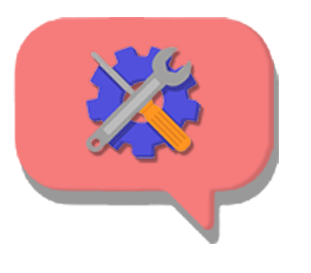
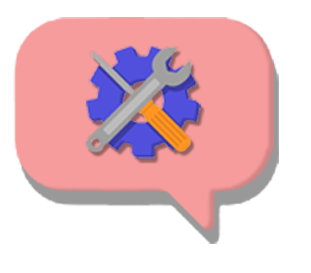
Parte PG finalizada flutter + tickets

diff --git a/mobile/fastapp/lib/pages/subPages/tickets_page.dart b/mobile/fastapp/lib/pages/subPages/tickets_page.dart
@@ -1,0 +1,107 @@
+import 'dart:ffi';
+import 'package:flutter/material.dart';
+import 'package:http/http.dart' as http;
+import 'dart:convert';
+
+class TicketsWidget extends StatefulWidget {
+  final int tecnicoId;
+  final String token;
+
+  const TicketsWidget({super.key, required this.tecnicoId, required this.token});
+
+  @override
+  State<TicketsWidget> createState() => _TicketsWidgetState();
+}
+
+class _TicketsWidgetState extends State<TicketsWidget> {
+  List<Map<String, dynamic>> tickets = [];
+
+  @override
+  void initState() {
+    super.initState();
+    carregarTickets();
+  }
+
+  Future<void> carregarTickets() async {
+    try {
+      final response = await http.get(
+        Uri.parse('http://10.0.2.2:5000/api/tecnico/${widget.tecnicoId}'),
+        headers: {
+          'Authorization': 'Bearer ${widget.token}',
+        },
+      );
+
+      if (response.statusCode == 200) {
+        final data = jsonDecode(response.body);
+        setState(() {
+          tickets = List<Map<String, dynamic>>.from(data['tickets']);
+        });
+      } else {
+        debugPrint("Erro ao carregar tickets: ${response.body}");
+      }
+    } catch (e) {
+      debugPrint("Erro ao buscar tickets: $e");
+    }
+  }
+
+  Future<void> resolverTicket(int ticketId) async {
+    try {
+      final response = await http.post(
+        Uri.parse('http://10.0.2.2:5000/api/ticket/$ticketId/fechar'),
+        headers: {
+          'Authorization': 'Bearer ${widget.token}',
+        },
+      );
+
+      if (response.statusCode == 200) {
+        setState(() {
+          tickets.removeWhere((ticket) => ticket['id'] == ticketId);
+        });
+      } else {
+        debugPrint("Erro ao resolver ticket: ${response.body}");
+      }
+    } catch (e) {
+      debugPrint("Erro ao enviar requisição: $e");
+    }
+  }
+
+  @override
+  Widget build(BuildContext context) {
+    return Column(
+      children: [
+        const SizedBox(height: 38),
+        Text('Você possui ${tickets.length} ticket(s)', style: const TextStyle(fontSize: 24)),
+        const SizedBox(height: 10),
+        Expanded(
+          child: ListView.builder(
+            itemCount: tickets.length,
+            itemBuilder: (context, index) {
+              final ticket = tickets[index];
+              return ExpansionTile(
+                title: Text("Ticket #${ticket['id']} - Status: ${ticket['status']}"),
+                children: [
+                  Padding(
+                    padding: const EdgeInsets.all(12.0),
+                    child: Column(
+                      crossAxisAlignment: CrossAxisAlignment.start,
+                      children: [
+                        Text(ticket['descricao'] ?? 'Sem descrição'),
+                        const SizedBox(height: 10),
+                        ElevatedButton.icon(
+                          icon: const Icon(Icons.check_circle),
+                          label: const Text("Resolver", style: const TextStyle(color: Color.fromARGB(255, 255, 255, 255))),
+                          style: ElevatedButton.styleFrom(backgroundColor: Colors.green),
+                          onPressed: () => resolverTicket(ticket['id']),
+                        )
+                      ],
+                    ),
+                  )
+                ],
+              );
+            },
+          ),
+        )
+      ],
+    );
+  }
+}

diff --git a/static/js/javinha.js b/static/js/javinha.js
@@ -42,14 +42,14 @@ document.addEventListener("DOMContentLoaded", function () {
     //--------------------Adiciona Tickets--------------------//
 
 
-     //-------DesignPingTick|
+    //-------DesignPingTick|
 
-        var tickIcon = L.icon({
-            iconUrl: '/static/images/Ticket.png',
-            iconAnchor: [60, 70],
-            iconSize: [30,30],
-            className: 'ticket-icone'
-        });
+    var tickIcon = L.icon({
+        iconUrl: '/static/images/Ticket.png',
+        iconAnchor: [60, 70],
+        iconSize: [34, 34],
+        className: 'ticket-icone'
+    });
     //----------------------|
 
     async function listTickets(sidebarId) {
@@ -73,7 +73,9 @@ document.addEventListener("DOMContentLoaded", function () {
             const tickets = await res.json();
             const ticketsDoDia = tickets.filter(ticket => {
                 if (!ticket.data) return false;
+                if (ticket.status === "fechado") return false;
                 return datasIguais(new Date(ticket.data + "Z"), dataSelecionada);
+
             });
 
             ceps = ticketsDoDia.map(ticket => ticket.cep);
@@ -99,7 +101,10 @@ document.addEventListener("DOMContentLoaded", function () {
 
         for (const cep of ceps) {
             try {
+
                 await plotarCepNoMapa(cep);
+
+
             } catch (e) {
                 console.error("Erro ao plotar CEP no mapa:", cep, e);
             }
@@ -245,7 +250,7 @@ document.addEventListener("DOMContentLoaded", function () {
             const { lat, lon } = nominatimData[0];
             // Debug para ver as coordenadas no console
 
-            const marcador = L.marker([lat, lon], {icon: tickIcon}).addTo(map);
+            const marcador = L.marker([lat, lon], { icon: tickIcon }).addTo(map);
             marcadoresPorCep[cep] = marcador;
             console.log(`CEP: ${cep} -> Latitude: ${lat}, Longitude: ${lon}`);
 

diff --git a/mobile/fastapp/lib/pages/home_page.dart b/mobile/fastapp/lib/pages/home_page.dart
@@ -3,6 +3,7 @@ import 'package:shared_preferences/shared_preferences.dart';
 import 'package:fastapp/services/location_service.dart';
 import 'package:fastapp/services/status_service.dart';
 import 'package:flutter/foundation.dart';
+import 'package:fastapp/pages/subPages/tickets_page.dart';
 import 'package:fastapp/pages/subPages/config_page.dart';
 import 'package:intl/intl.dart';
 import 'dart:async';
@@ -411,7 +412,7 @@ class _HomePageState extends State<HomePage> {
   Widget buildContent() {
     switch (selectedIndex) {
       case 0:
-        return const Center(child: Text('Nenhum ticket disponível'));
+        return TicketsWidget(tecnicoId:  int.tryParse(id) ?? 0, token: token);
       case 1:
         return buildPontoTab();
       case 2:

diff --git a/app/routes.py b/app/routes.py
@@ -143,7 +143,7 @@ def get_tecnicos():
                 }
                 for ticket in t.tickets
             ],
-            "tickets_abertos": len([tk for tk in t.tickets if tk.status != "Encerrado"])
+            "tickets_abertos": len([tk for tk in t.tickets if tk.status != "fechado"])
         })
     return jsonify(result)
 
@@ -178,6 +178,36 @@ def login():
         })
     else:
         return jsonify({'status': 'erro', 'mensagem': 'Credenciais inválidas'}), 401
+    
+
[email redacted]('/api/tecnico/<int:id>', methods=['GET'])
+def get_tickets_tecnico(id):
+    from app.models import Tecnico
+    tecnico = Tecnico.query.get(id)
+    if not tecnico:
+        return jsonify({'error': 'Técnico não encontrado'}), 404
+
+    return jsonify({
+        'tickets': [
+            {
+                'id': t.id,
+                'descricao': t.descricao,
+                'status': t.status
+            } for t in tecnico.tickets if t.status != 'fechado'
+        ]
+    })
+
[email redacted]('/api/ticket/<int:id>/fechar', methods=['POST'])
+def fechar_ticket(id):
+    from app.models import Ticket
+    ticket = Ticket.query.get(id)
+    if not ticket:
+        return jsonify({'error': 'Ticket não encontrado'}), 404
+
+    ticket.status = 'fechado'
+    db.session.commit()
+    return jsonify({'message': 'Ticket fechado com sucesso'})
+
     
 
 @app.route('/api/swap_status', methods=['POST'])